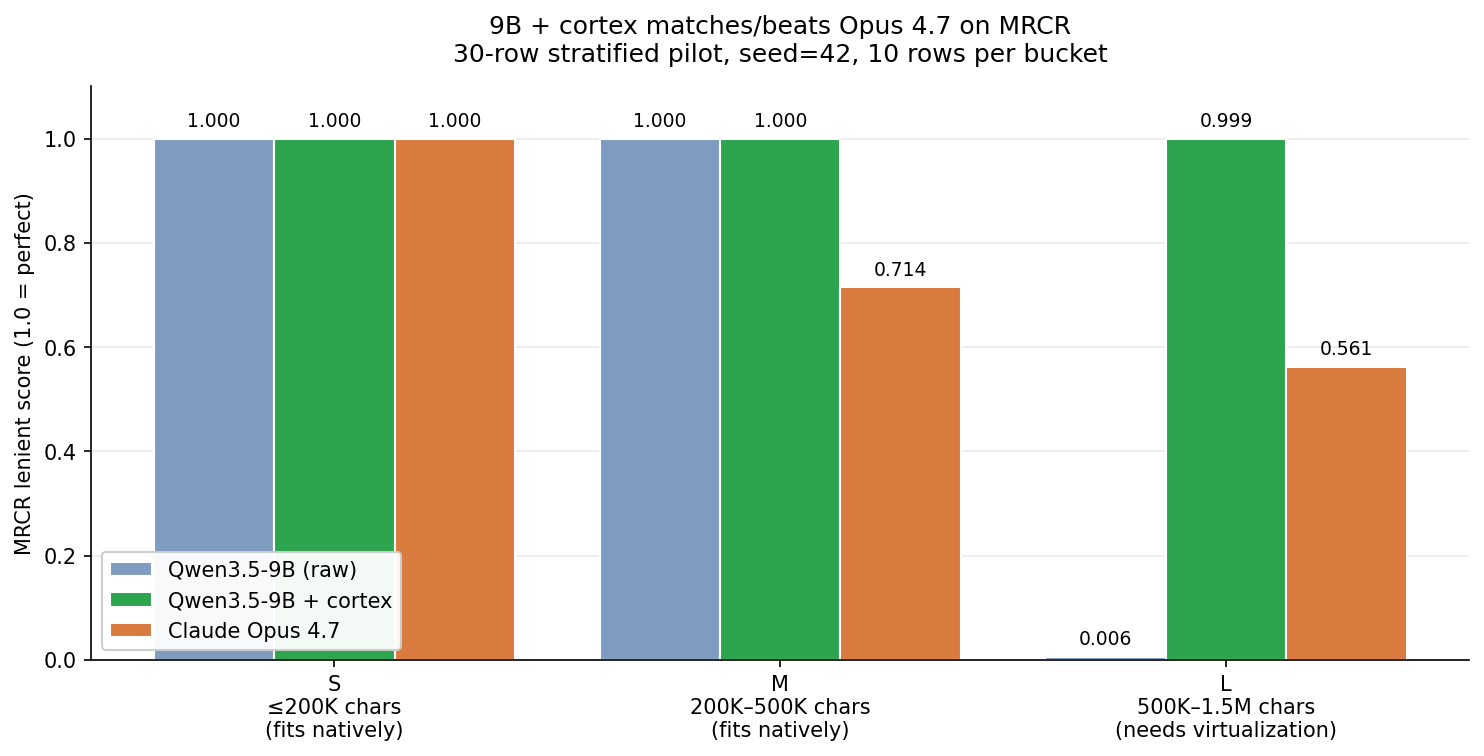
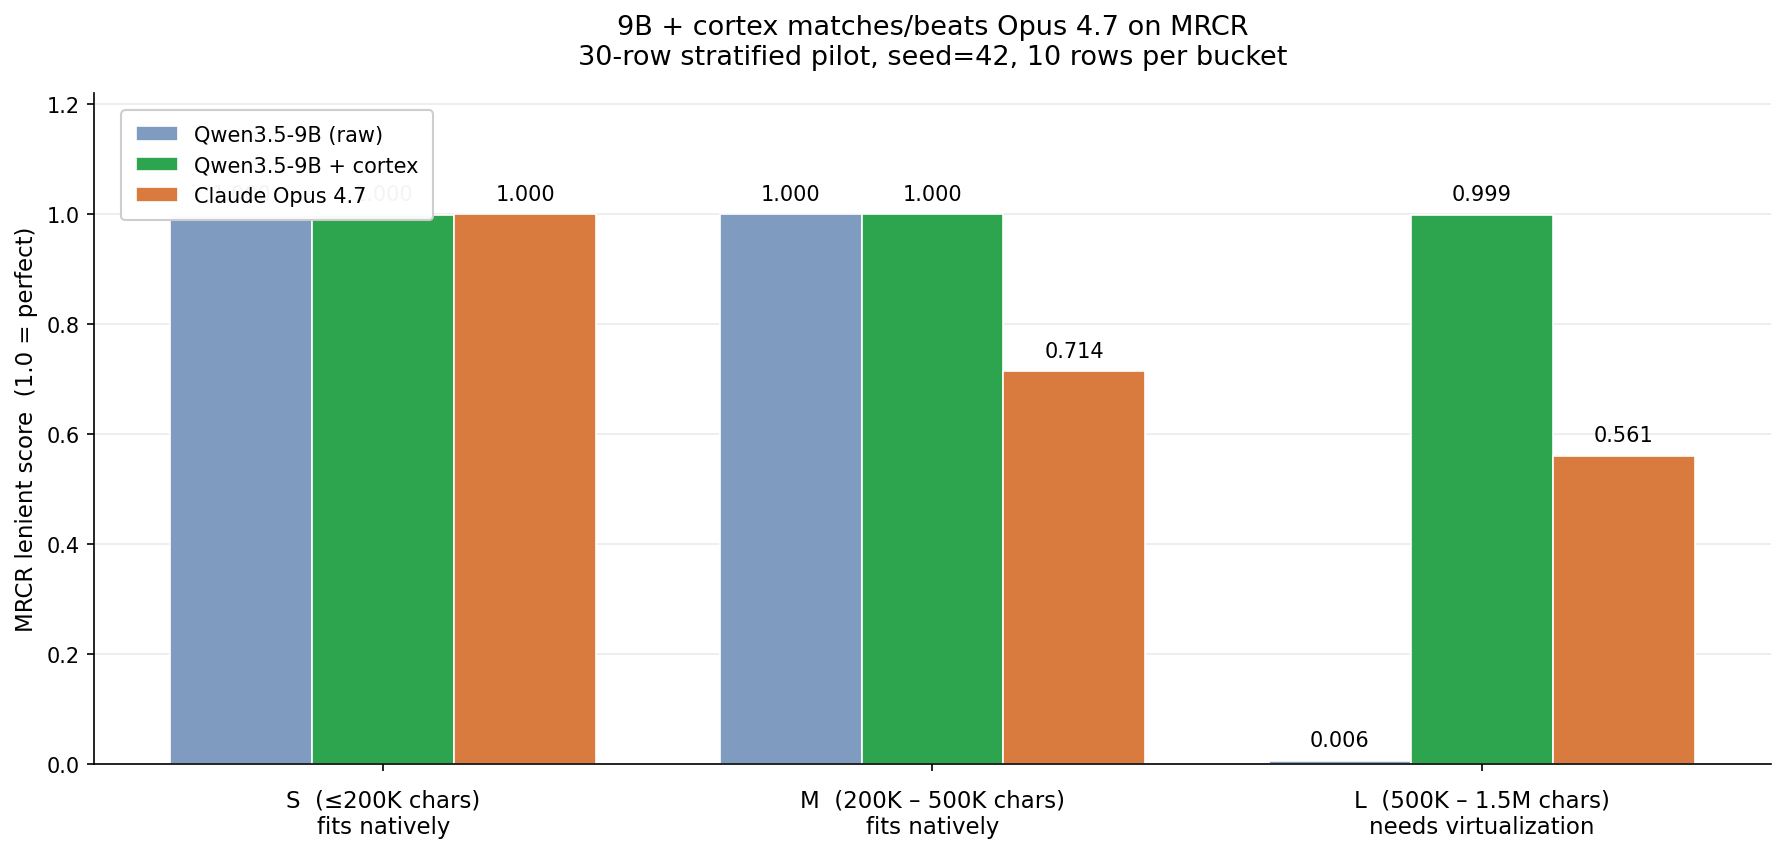
chart: widen groups, headroom, legend repositioned — no text overlap

diff --git a/bench/pilot_cortex/make_chart.py b/bench/pilot_cortex/make_chart.py
@@ -28,10 +28,12 @@ def main(src: str = "results/pilot_cortex/scale30_v3.json",
     # Calm palette: muted blue, vivid green (cortex = headline), muted orange.
     colors = {"raw_9b": "#7f9cc0", "cortex_9b": "#2da44e", "opus": "#d97a3f"}
 
-    bar_w = 0.27
-    x = list(range(len(buckets)))
+    # Wider group spacing so the multi-line xtick labels don't touch.
+    group_w = 2.4
+    bar_w = 0.62
+    x = [i * group_w for i in range(len(buckets))]
 
-    fig, ax = plt.subplots(figsize=(10, 5.2))
+    fig, ax = plt.subplots(figsize=(12, 5.8))
 
     for i, arm in enumerate(arms):
         ys = []
@@ -40,35 +42,42 @@ def main(src: str = "results/pilot_cortex/scale30_v3.json",
             ys.append(v.get("mean_score_lenient", 0.0))
         offsets = [xi + (i - 1) * bar_w for xi in x]
         bars = ax.bar(offsets, ys, bar_w, label=arm_labels[arm],
-                      color=colors[arm], edgecolor="white")
+                      color=colors[arm], edgecolor="white", linewidth=0.8)
         for rect, y in zip(bars, ys):
             ax.annotate(f"{y:.3f}",
                         xy=(rect.get_x() + rect.get_width() / 2, y),
-                        xytext=(0, 4), textcoords="offset points",
-                        ha="center", va="bottom", fontsize=9)
+                        xytext=(0, 5), textcoords="offset points",
+                        ha="center", va="bottom", fontsize=10)
 
     ax.set_xticks(x)
+    # Single-line xticks; status moved to a smaller second line with extra spacing.
     bucket_labels = [
-        "S\n≤200K chars\n(fits natively)",
-        "M\n200K–500K chars\n(fits natively)",
-        "L\n500K–1.5M chars\n(needs virtualization)",
+        "S  (≤200K chars)\nfits natively",
+        "M  (200K – 500K chars)\nfits natively",
+        "L  (500K – 1.5M chars)\nneeds virtualization",
     ]
-    ax.set_xticklabels(bucket_labels, fontsize=10)
-    ax.set_ylim(0, 1.10)
-    ax.set_ylabel("MRCR lenient score (1.0 = perfect)", fontsize=10)
+    ax.set_xticklabels(bucket_labels, fontsize=11)
+    # Headroom so the "0.xxx" labels on the tallest bars don't touch the title.
+    ax.set_ylim(0, 1.22)
+    ax.set_ylabel("MRCR lenient score  (1.0 = perfect)", fontsize=11)
     ax.set_title(
         "9B + cortex matches/beats Opus 4.7 on MRCR\n"
         "30-row stratified pilot, seed=42, 10 rows per bucket",
-        fontsize=12, pad=12,
+        fontsize=13, pad=14,
     )
-    ax.legend(loc="lower left", fontsize=10, framealpha=0.95)
+    # Legend pinned to upper-left corner with padding away from bars.
+    ax.legend(loc="upper left", fontsize=10, framealpha=0.96,
+              bbox_to_anchor=(0.01, 0.99), borderpad=0.7)
     ax.spines["top"].set_visible(False)
     ax.spines["right"].set_visible(False)
     ax.yaxis.grid(True, alpha=0.25)
     ax.set_axisbelow(True)
+    ax.tick_params(axis="x", pad=8)
 
+    # Pad below the bars so 2-line tick labels have room.
+    fig.subplots_adjust(bottom=0.18)
     fig.tight_layout()
-    fig.savefig(out_path, dpi=150, bbox_inches="tight")
+    fig.savefig(out_path, dpi=150, bbox_inches="tight", facecolor="white")
     print(f"saved -> {out_path}")
 
 